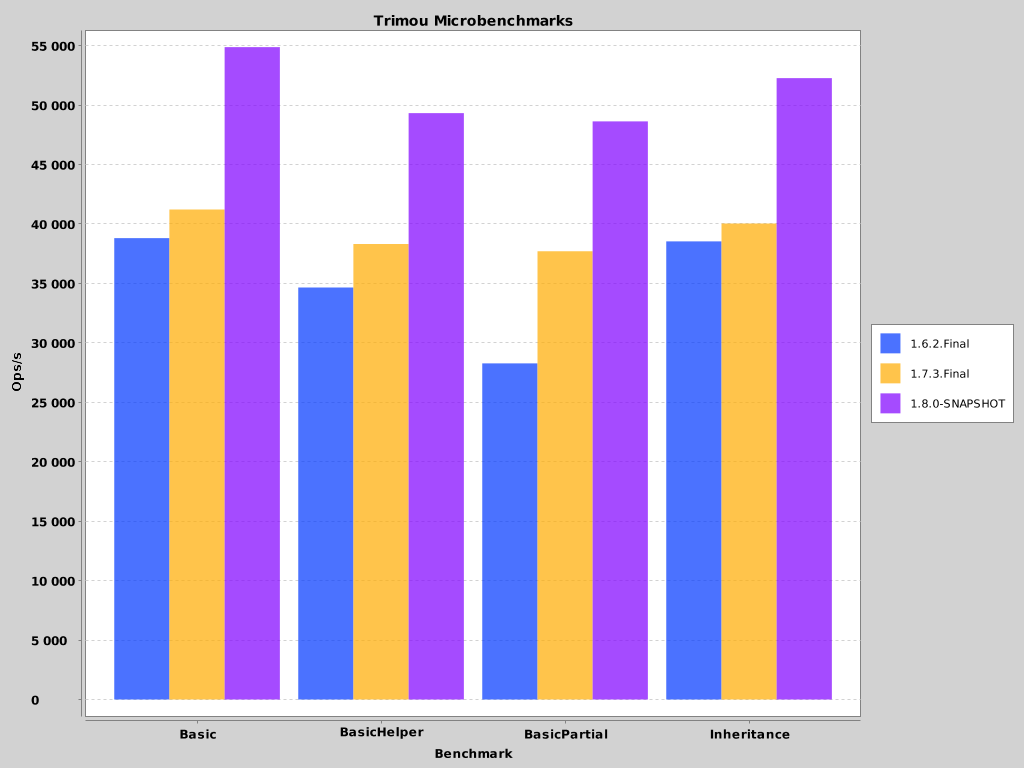
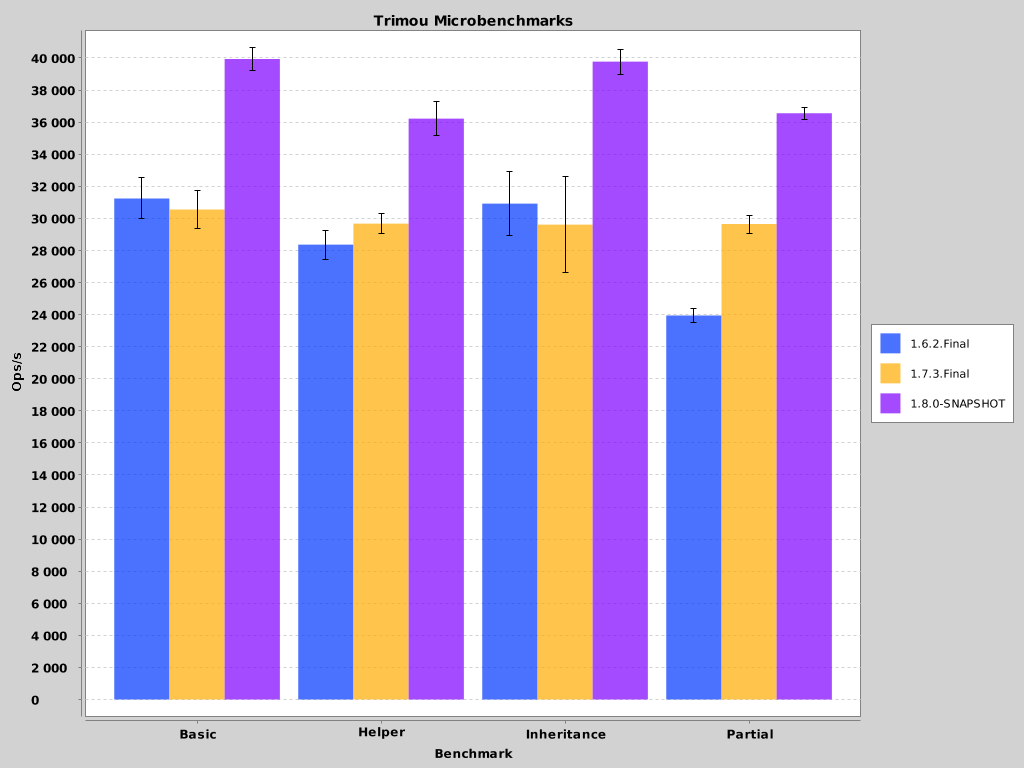
Add error bars, rename benchmarks

diff --git a/src/test/resources/expected_basic.html b/src/test/resources/expected_basic.html
@@ -8,78 +8,93 @@
   DearFoo,herearetheitemsyouordered(15):
   <table>
     <tr>
+      <td>1.</td>
       <td>0</td>
-      <td>5000</td>
+      <td>0</td>
       <td>min.age:10</td>
     </tr>
     <tr>
+      <td>2.</td>
       <td>1</td>
-      <td>2000</td>
-      <td>origin:C10</td>
+      <td>1000</td>
+      <td>origin:cell1</td>
     </tr>
     <tr>
+      <td>3.</td>
       <td>2</td>
-      <td>5000</td>
+      <td>2000</td>
       <td>min.age:10</td>
     </tr>
     <tr>
+      <td>4.</td>
       <td>3</td>
-      <td>2000</td>
-      <td>origin:C10</td>
+      <td>3000</td>
+      <td>origin:cell3</td>
     </tr>
     <tr>
+      <td>5.</td>
       <td>4</td>
-      <td>5000</td>
+      <td>4000</td>
       <td>min.age:10</td>
     </tr>
     <tr>
+      <td>6.</td>
       <td>5</td>
-      <td>2000</td>
-      <td>origin:C10</td>
+      <td>5000</td>
+      <td>origin:cell5</td>
     </tr>
     <tr>
+      <td>7.</td>
       <td>6</td>
-      <td>5000</td>
+      <td>6000</td>
       <td>min.age:10</td>
     </tr>
     <tr>
+      <td>8.</td>
       <td>7</td>
-      <td>2000</td>
-      <td>origin:C10</td>
+      <td>7000</td>
+      <td>origin:cell7</td>
     </tr>
     <tr>
+      <td>9.</td>
       <td>8</td>
-      <td>5000</td>
+      <td>8000</td>
       <td>min.age:10</td>
     </tr>
     <tr>
+      <td>10.</td>
       <td>9</td>
-      <td>2000</td>
-      <td>origin:C10</td>
+      <td>9000</td>
+      <td>origin:cell9</td>
     </tr>
     <tr>
+      <td>11.</td>
       <td>10</td>
-      <td>5000</td>
+      <td>10000</td>
       <td>min.age:10</td>
     </tr>
     <tr>
+      <td>12.</td>
       <td>11</td>
-      <td>2000</td>
-      <td>origin:C10</td>
+      <td>11000</td>
+      <td>origin:cell11</td>
     </tr>
     <tr>
+      <td>13.</td>
       <td>12</td>
-      <td>5000</td>
+      <td>12000</td>
       <td>min.age:10</td>
     </tr>
     <tr>
+      <td>14.</td>
       <td>13</td>
-      <td>2000</td>
-      <td>origin:C10</td>
+      <td>13000</td>
+      <td>origin:cell13</td>
     </tr>
     <tr>
+      <td>15.</td>
       <td>14</td>
-      <td>5000</td>
+      <td>14000</td>
       <td>min.age:10</td>
     </tr>
   </table>

diff --git a/src/test/resources/expected_inheritance.html b/src/test/resources/expected_inheritance.html
@@ -8,78 +8,93 @@
   DearFoo,herearetheitemsyouordered(15):
   <table>
     <tr>
+      <td>1.</td>
       <td>0</td>
-      <td>5000</td>
+      <td>0</td>
       <td>min.age:10</td>
     </tr>
     <tr>
+      <td>2.</td>
       <td>1</td>
-      <td>2000</td>
-      <td>origin:C10</td>
+      <td>1000</td>
+      <td>origin:cell1</td>
     </tr>
     <tr>
+      <td>3.</td>
       <td>2</td>
-      <td>5000</td>
+      <td>2000</td>
       <td>min.age:10</td>
     </tr>
     <tr>
+      <td>4.</td>
       <td>3</td>
-      <td>2000</td>
-      <td>origin:C10</td>
+      <td>3000</td>
+      <td>origin:cell3</td>
     </tr>
     <tr>
+      <td>5.</td>
       <td>4</td>
-      <td>5000</td>
+      <td>4000</td>
       <td>min.age:10</td>
     </tr>
     <tr>
+      <td>6.</td>
       <td>5</td>
-      <td>2000</td>
-      <td>origin:C10</td>
+      <td>5000</td>
+      <td>origin:cell5</td>
     </tr>
     <tr>
+      <td>7.</td>
       <td>6</td>
-      <td>5000</td>
+      <td>6000</td>
       <td>min.age:10</td>
     </tr>
     <tr>
+      <td>8.</td>
       <td>7</td>
-      <td>2000</td>
-      <td>origin:C10</td>
+      <td>7000</td>
+      <td>origin:cell7</td>
     </tr>
     <tr>
+      <td>9.</td>
       <td>8</td>
-      <td>5000</td>
+      <td>8000</td>
       <td>min.age:10</td>
     </tr>
     <tr>
+      <td>10.</td>
       <td>9</td>
-      <td>2000</td>
-      <td>origin:C10</td>
+      <td>9000</td>
+      <td>origin:cell9</td>
     </tr>
     <tr>
+      <td>11.</td>
       <td>10</td>
-      <td>5000</td>
+      <td>10000</td>
       <td>min.age:10</td>
     </tr>
     <tr>
+      <td>12.</td>
       <td>11</td>
-      <td>2000</td>
-      <td>origin:C10</td>
+      <td>11000</td>
+      <td>origin:cell11</td>
     </tr>
     <tr>
+      <td>13.</td>
       <td>12</td>
-      <td>5000</td>
+      <td>12000</td>
       <td>min.age:10</td>
     </tr>
     <tr>
+      <td>14.</td>
       <td>13</td>
-      <td>2000</td>
-      <td>origin:C10</td>
+      <td>13000</td>
+      <td>origin:cell13</td>
     </tr>
     <tr>
+      <td>15.</td>
       <td>14</td>
-      <td>5000</td>
+      <td>14000</td>
       <td>min.age:10</td>
     </tr>
   </table>

diff --git a/src/main/resources/templates/basic_helper.html b/src/main/resources/templates/basic_helper.html
@@ -14,6 +14,7 @@ here are the items you ordered ({{items.size}}):
 <table>
     {{#each items}}
     <tr>
+        <td>{{iterIndex}}.</td>
         <td>{{&name}}</td>
         <td>{{price}}</td>
         <td>{{#if toy}}min.age: {{minAge}}{{/if}}{{#unless toy}}origin: {{origin.country}}{{/unless}}</td>

diff --git a/src/main/resources/templates/basic.html b/src/main/resources/templates/basic.html
@@ -14,6 +14,7 @@ here are the items you ordered ({{items.size}}):
 <table>
     {{#items}}
     <tr>
+        <td>{{iterIndex}}.</td>
         <td>{{&name}}</td>
         <td>{{price}}</td>
         <td>{{#toy}}min.age: {{minAge}}{{/toy}}{{^toy}}origin: {{origin.country}}{{/toy}}</td>

diff --git a/src/main/resources/templates/inheritance.html b/src/main/resources/templates/inheritance.html
@@ -9,6 +9,7 @@ here are the items you ordered ({{items.size}}):
 <table>
     {{#items}}
     <tr>
+        <td>{{iterIndex}}.</td>
         <td>{{&name}}</td>
         <td>{{price}}</td>
         <td>{{#toy}}min.age: {{minAge}}{{/toy}}{{^toy}}origin: {{origin.country}}{{/toy}}</td>

diff --git a/src/main/resources/templates/basic_item_row.html b/src/main/resources/templates/basic_item_row.html
@@ -1,4 +1,5 @@
 <tr>
+  <td>{{iterIndex}}.</td>
   <td>{{name}}</td>
   <td>{{price}}</td>
   <td>{{#toy}}min.age: {{minAge}}{{/toy}}{{^toy}}origin:

diff --git a/src/main/java/org/trimou/benchmark/chart/ChartGenerator.java b/src/main/java/org/trimou/benchmark/chart/ChartGenerator.java
@@ -73,6 +73,7 @@ public class ChartGenerator {
 
             List<String> benchmars = new ArrayList<String>();
             List<BigDecimal> scores = new ArrayList<BigDecimal>();
+            List<BigDecimal> errors = new ArrayList<BigDecimal>();
 
             for (JsonElement jsonElement : series) {
                 JsonObject benchmark = jsonElement.getAsJsonObject();
@@ -81,8 +82,9 @@ public class ChartGenerator {
                 benchmarkName = benchmarkName.substring(benchmarkName.lastIndexOf('.') + 1, benchmarkName.length());
                 benchmars.add(benchmarkName);
                 scores.add(benchmark.get("primaryMetric").getAsJsonObject().get("score").getAsBigDecimal());
+                errors.add(benchmark.get("primaryMetric").getAsJsonObject().get("scoreError").getAsBigDecimal());
             }
-            chart.addSeries(file.getName().replace("results-", "").replace(".json", ""), benchmars, scores);
+            chart.addSeries(file.getName().replace("results-", "").replace(".json", ""), benchmars, scores, errors);
         }
 
         // Save as png

diff --git a/src/main/java/org/trimou/benchmark/Basic.java b/src/main/java/org/trimou/benchmark/Basic.java
@@ -57,14 +57,14 @@ public class Basic extends BenchmarkBase {
         if (idx % 2 == 0) {
             Toy toy = new Toy();
             toy.setName("" + idx);
-            toy.setPrice(new BigDecimal("5000"));
+            toy.setPrice(new BigDecimal(idx * 1000));
             toy.setMinAge(10);
             return toy;
         } else {
             Food food = new Food();
             food.setName("" + idx);
-            food.setPrice(new BigDecimal("2000"));
-            food.setOrigin(new Origin("C10"));
+            food.setPrice(new BigDecimal(idx * 1000));
+            food.setOrigin(new Origin("cell " + idx));
             return food;
         }
     }

diff --git a/src/test/java/org/trimou/benchmark/ExpectedOutputTest.java b/src/test/java/org/trimou/benchmark/ExpectedOutputTest.java
@@ -29,15 +29,15 @@ public class ExpectedOutputTest {
     }
 
     @Test
-    public void testBasicHelper() throws IOException {
-        BasicHelper benchmark = new BasicHelper();
+    public void testHelper() throws IOException {
+        Helper benchmark = new Helper();
         benchmark.setup();
         assertOutput("/expected_basic.html", benchmark.render());
     }
 
     @Test
     public void testPartial() throws IOException {
-        BasicPartial benchmark = new BasicPartial();
+        Partial benchmark = new Partial();
         benchmark.setup();
         assertOutput("/expected_basic.html", benchmark.render());
     }

diff --git a/src/main/java/org/trimou/benchmark/Helper.java b/src/main/java/org/trimou/benchmark/Helper.java
@@ -4,10 +4,10 @@ package org.trimou.benchmark;
  *
  * @author Martin Kouba
  */
-public class BasicPartial extends Basic {
+public class Helper extends Basic {
 
     protected String getMustacheName() {
-        return "templates/basic_partial";
+        return "templates/basic_helper";
     }
 
 }

diff --git a/src/main/java/org/trimou/benchmark/Partial.java b/src/main/java/org/trimou/benchmark/Partial.java
@@ -4,10 +4,10 @@ package org.trimou.benchmark;
  *
  * @author Martin Kouba
  */
-public class BasicHelper extends Basic {
+public class Partial extends Basic {
 
     protected String getMustacheName() {
-        return "templates/basic_helper";
+        return "templates/basic_partial";
     }
 
 }

diff --git a/README.md b/README.md
@@ -1,5 +1,18 @@
 # trimou-benchmarks
 
+Running the benchmarks
+======================
+
+> $ ./benchmarks.sh
+
+to run benchmarks and generate a chart for `1.6.2.Final`, `1.7.3.Final` and `1.8.0-SNAPSHOT`, or
+
+> $ mvn package -Dversion.trimou=1.8.0-SNAPSHOT
+> $ java -jar target/trimou-benchmarks.jar -rf json -rff results.json
+> $ java -cp target/trimou-benchmarks.jar org.trimou.benchmark.chart.ChartGenerator results.json
+
+for a specific Trimou version.
+
 Example Results
 ===============
 
